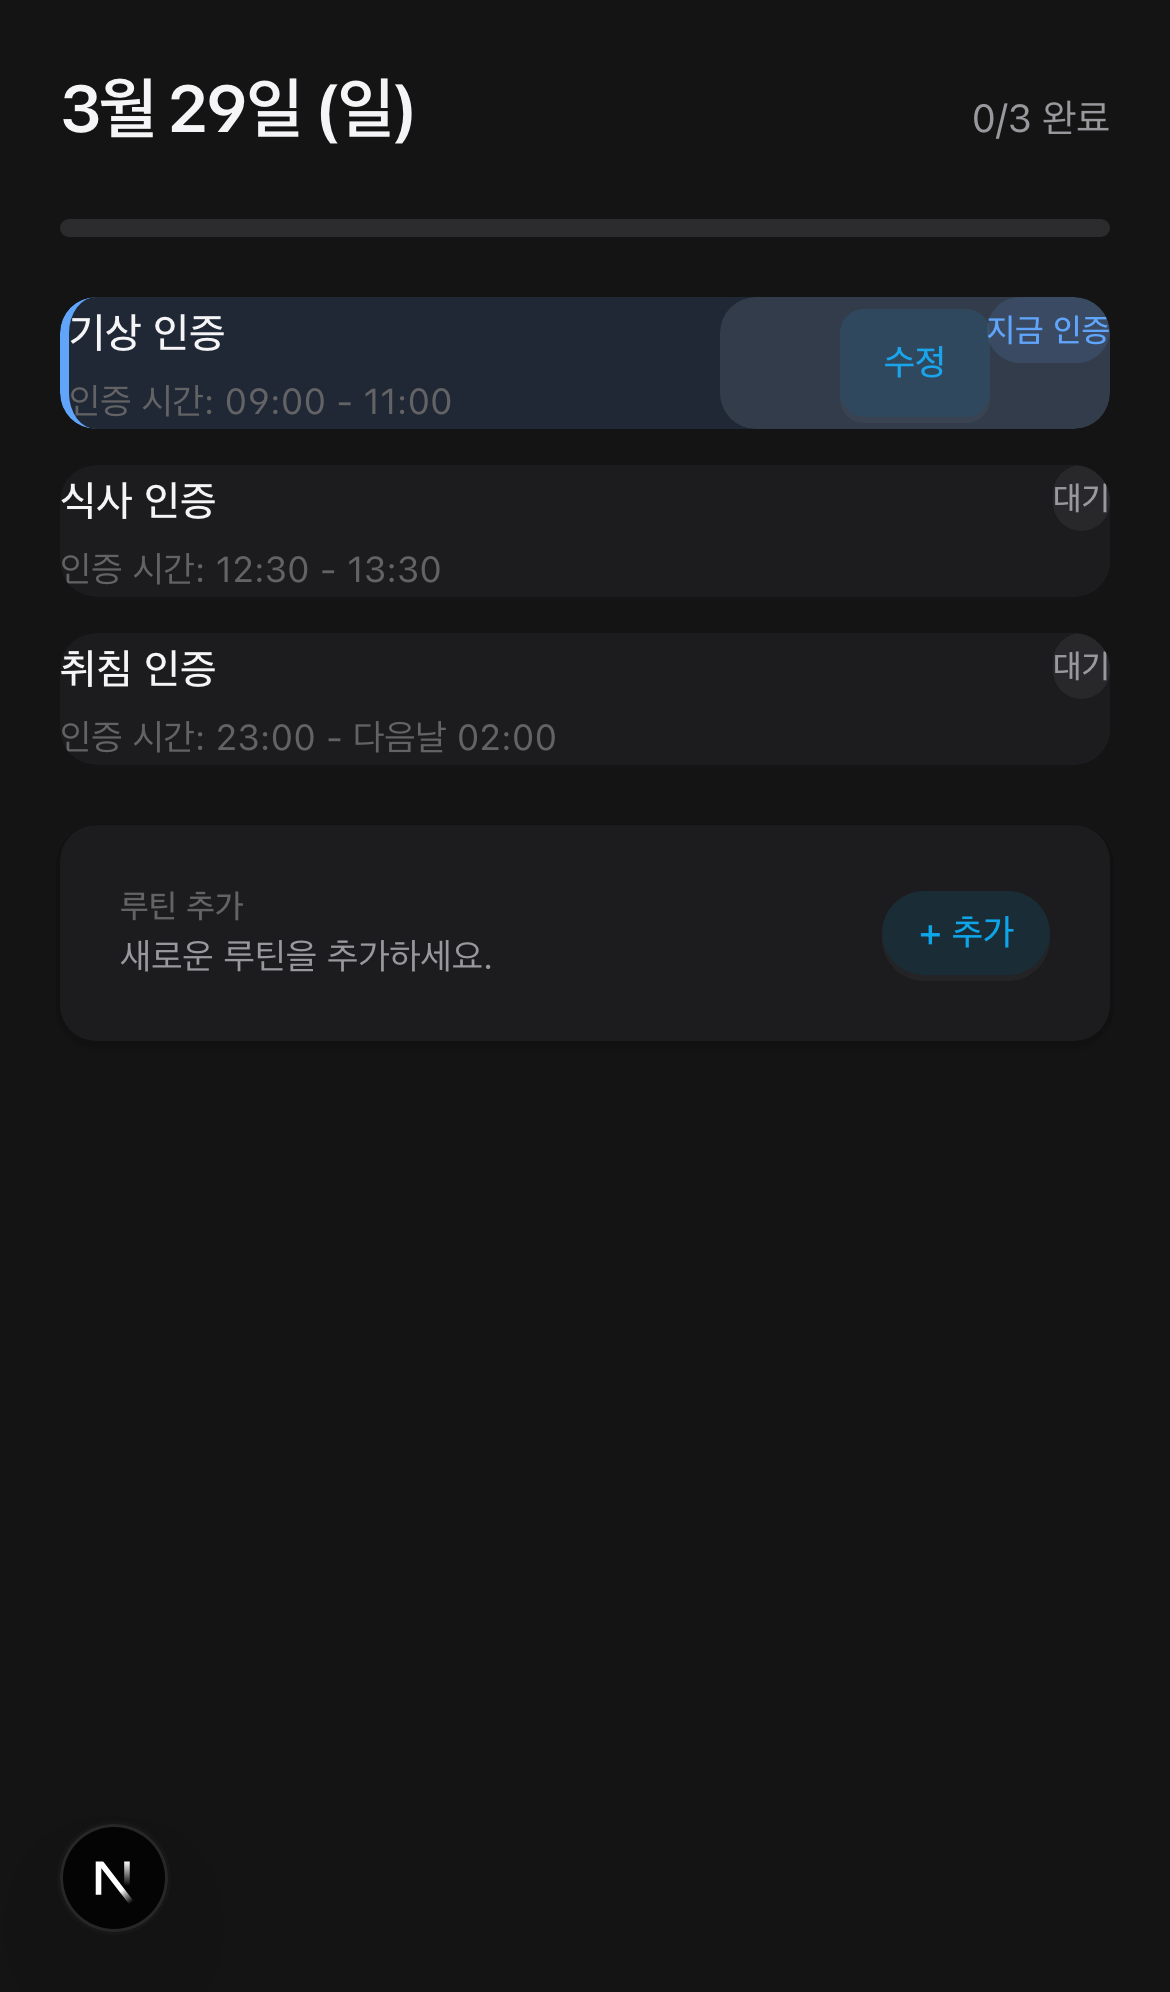
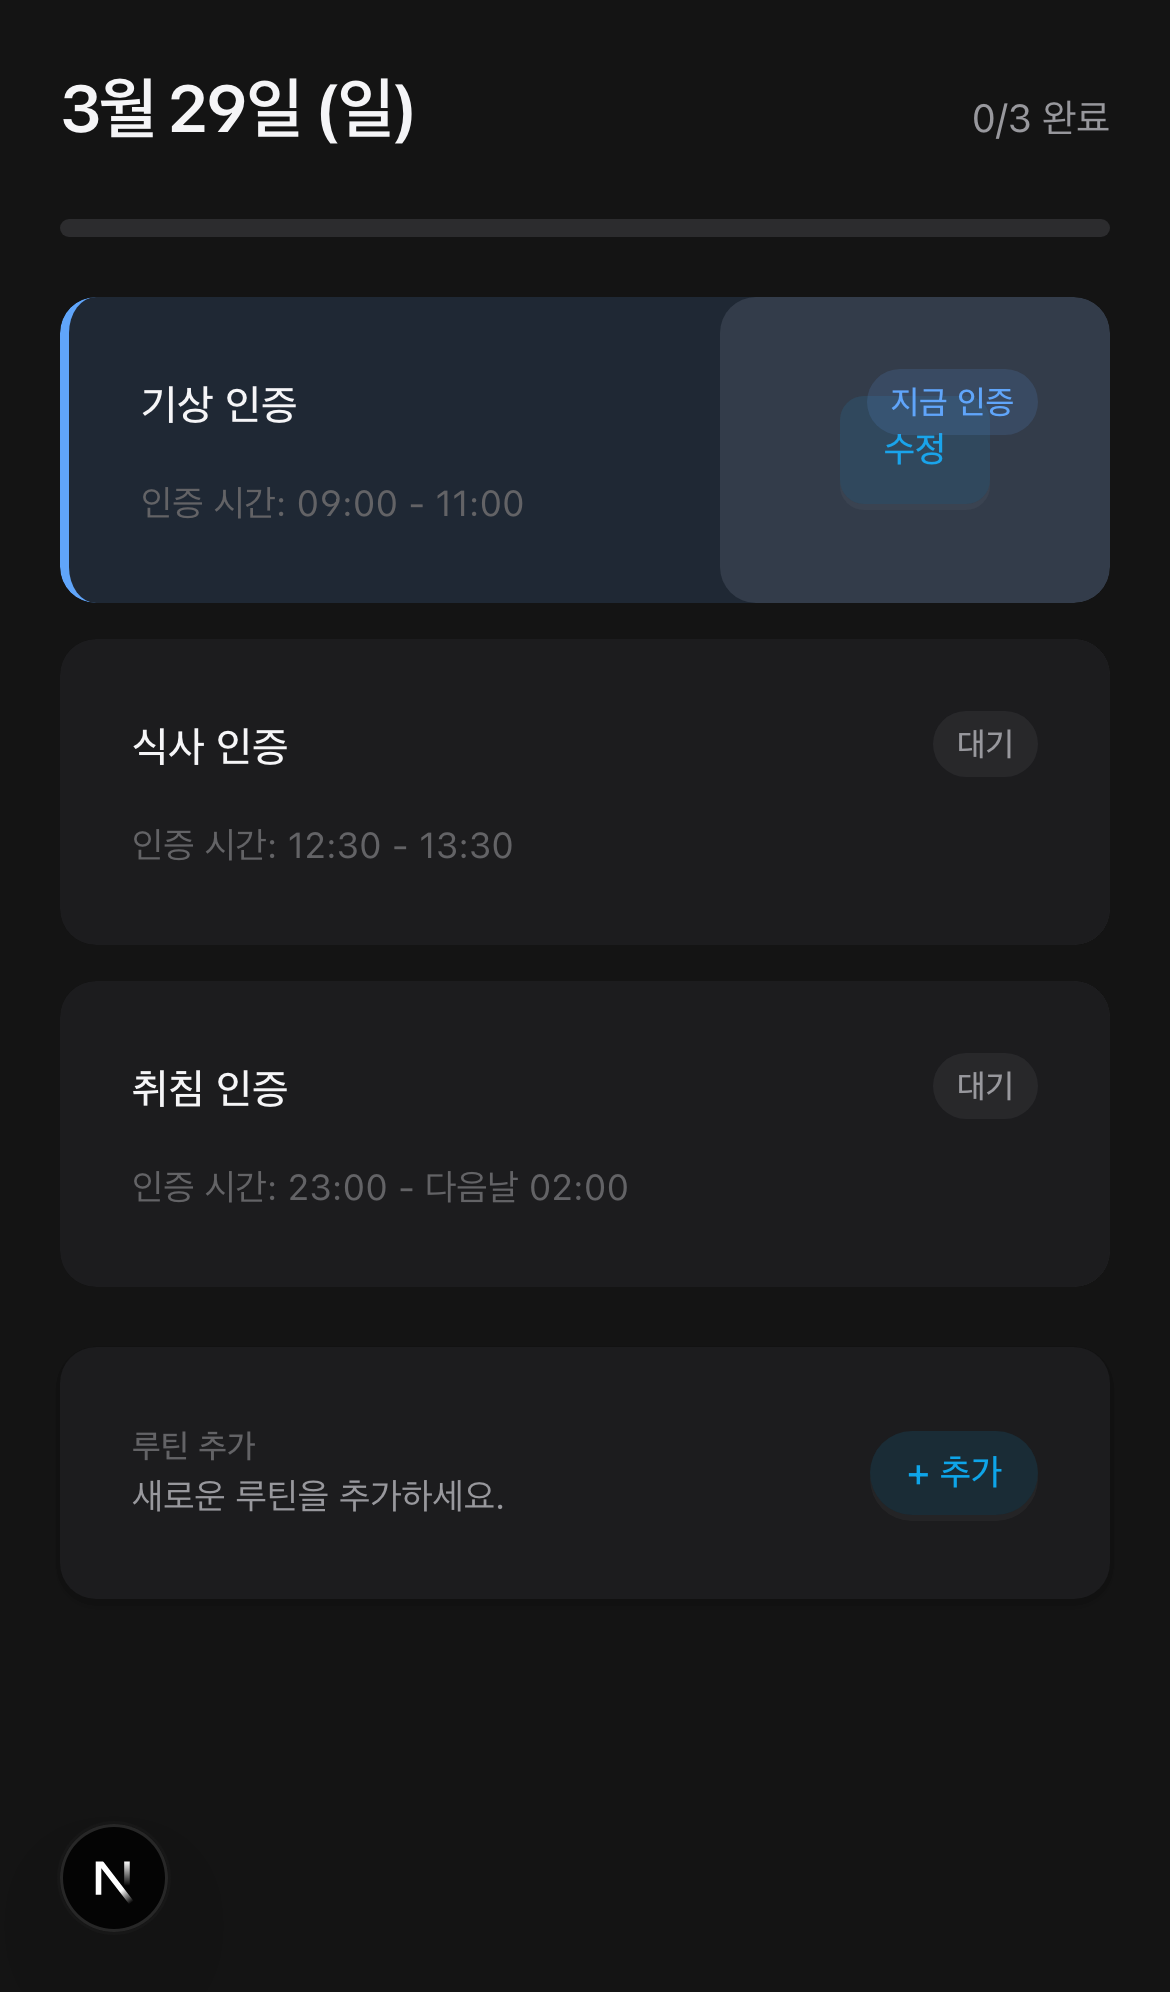
fix: CSS 리셋이 Tailwind padding 유틸리티를 오버라이드하던 버그 수정
근본 원인: globals.css의 '* { padding: 0; margin: 0; }' 리셋이
Tailwind 유틸리티(py-ds-card-y 등)와 동일한 specificity(0-0-1)라
로딩 순서에 의해 모든 padding을 0으로 덮어씀.

수정: ':where()' 래퍼로 리셋의 specificity를 0-0-0으로 낮춤.
이제 Tailwind 유틸리티 클래스가 확실히 우선됨.

결과: 카드 내부 24px, 아이템 내부 16/18px 패딩이 실제로 적용됨.

diff --git a/apps/web/src/components/ui/design-system.css b/apps/web/src/components/ui/design-system.css
@@ -97,10 +97,10 @@
   --ds-space-page-bottom: 48px;
   --ds-space-section-gap: 20px;
   --ds-space-card-gap: 12px;
-  --ds-space-card-x: 20px;
-  --ds-space-card-y: 18px;
-  --ds-space-item-x: 16px;     /* 내부 아이템 좌우 */
-  --ds-space-item-y: 14px;     /* 내부 아이템 상하 */
+  --ds-space-card-x: 24px;
+  --ds-space-card-y: 24px;
+  --ds-space-item-x: 18px;     /* 내부 아이템 좌우 */
+  --ds-space-item-y: 16px;     /* 내부 아이템 상하 */
   --ds-space-inline: 8px;
   --ds-space-tight: 6px;
 

diff --git a/apps/web/src/app/today/today-view.tsx b/apps/web/src/app/today/today-view.tsx
@@ -807,7 +807,7 @@ export function TodayView() {
               const card = (
                 <article
                   className={`
-                    routine-card-surface relative z-[1] w-full flex flex-col gap-1
+                    routine-card-surface relative z-[1] w-full flex flex-col gap-ds-inline
                     border-0 rounded-ds-lg py-ds-card-y px-ds-card-x box-border
                     transition-all duration-300 ease-[var(--ds-ease)]
                     ${inWindow 

diff --git a/apps/web/src/app/globals.css b/apps/web/src/app/globals.css
@@ -106,8 +106,11 @@ body {
   font-feature-settings: 'ss01', 'ss02';
 }
 
-* {
+*, ::before, ::after {
   box-sizing: border-box;
+}
+
+:where(*, ::before, ::after) {
   padding: 0;
   margin: 0;
 }
